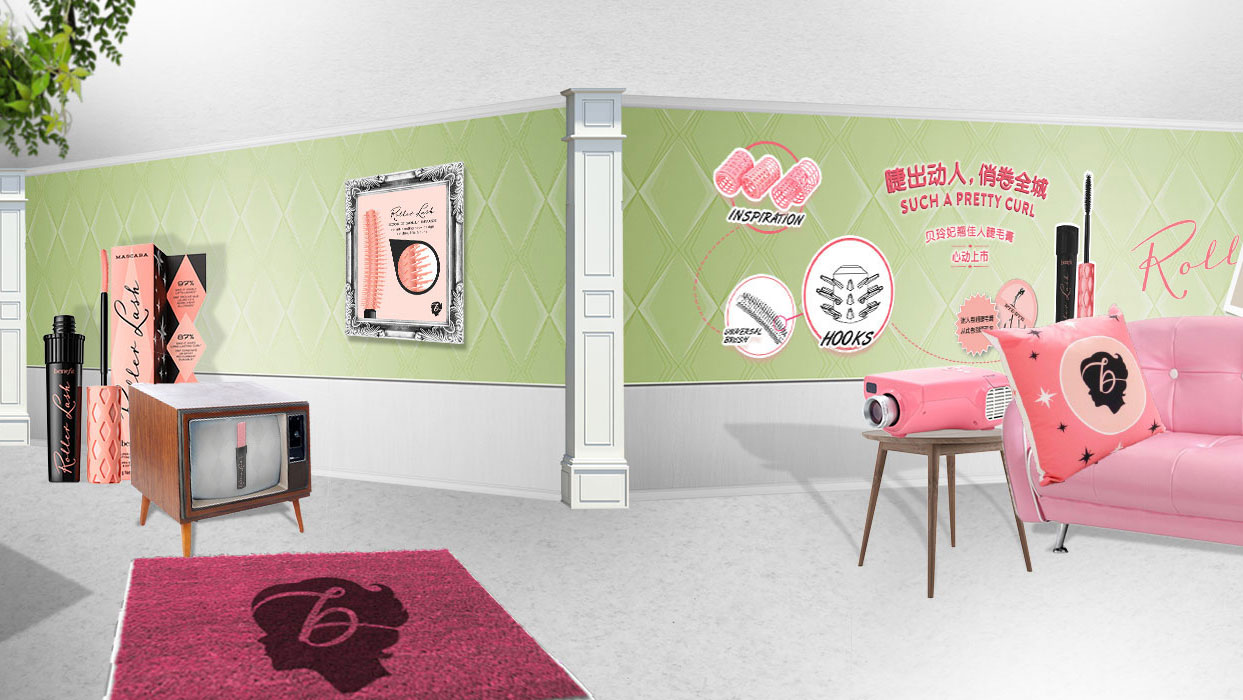
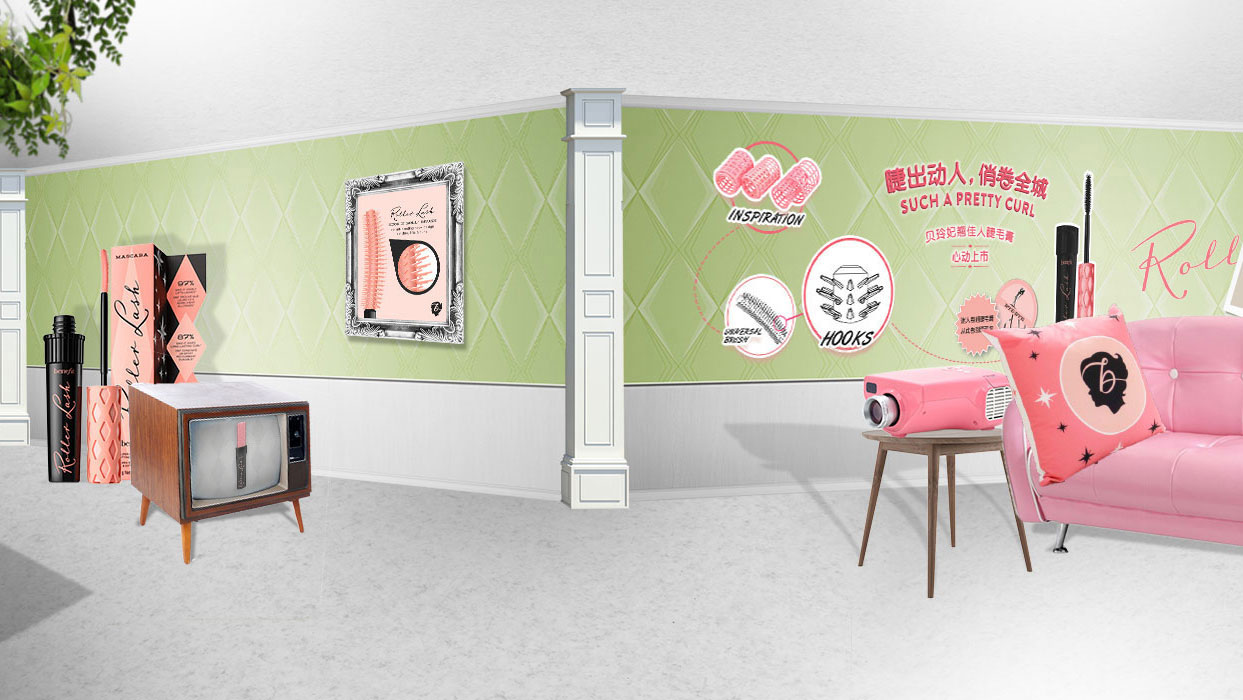
fix the magzine problem, split bike and blanket from bg

Changed region(s): [[0.0611, 0.78, 0.4891, 1.0]]

diff --git a/static/js/app.js b/static/js/app.js
@@ -218,14 +218,42 @@ $(window).on('mousewheel', function (e) {
     
     var tan = Math.tan(5 * Math.PI/180);
     
-    if( Math.abs(wheeldelta.y) / Math.abs(wheeldelta.x) > tan){
+    if( wheeldelta.x == 0  || Math.abs(wheeldelta.y) / Math.abs(wheeldelta.x) > tan){
         scrollBg(e.deltaY * e.deltaFactor);
     }else{
         scrollBg(e.deltaX * e.deltaFactor);
     }
-    
-    
 });
+
+var rotating, rotateIndex=0;
+
+var rotateMag = function(){
+    clearTimeout(rotating);
+    rotating = setTimeout(rotateMag, 3000);
+    
+    
+    if(++rotateIndex  > 3){
+        rotateIndex = rotateIndex % 4;
+    }
+    
+    
+    $(".mag-page-ct.active").fadeOut(500, function(){
+        $(this).removeClass("active").addClass("inactive");
+        
+        $("#mag-page-"+rotateIndex).fadeIn(500, function(){
+            $(this).removeClass("inactive").addClass("active");
+        });
+    });
+    
+    
+    
+    if(rotateIndex != 3){   //hide video
+        $(".mag-page-3-vplayer-ct").fadeOut(function(){
+            $(this).find(".video_player").html("");
+        });
+    }
+    
+}
 
 var magzineVideo = "<iframe height=100% width=100% src='http://static.youku.com/v/swf/qplayer.swf?VideoIDS=XODkxMDU5MjAw&isAutoPlay=true&isShowRelatedVideo=false&embedid=-&showAd=0' frameborder=0 allowfullscreen></iframe>"
 
@@ -237,14 +265,18 @@ var video2_4_1 = "<iframe height=100% width=100% src='http://static.youku.com/v/
 $(function(){
     /* reset the background image when document is ready */
     resize();
-
+    
     $(".hotspot").click(function(e){
         var index = $(this).attr("id"),
             container = "#" + index + "-ct",
             videotag = "#" +  index + "-player";
-            
+        
+        
         $(container).fadeIn(function(){
-                if(index == "hotspot-2-1"){
+            if(index === "hotspot-1"){
+                setTimeout(rotateMag, 1000);
+            }
+            if(index == "hotspot-2-1"){
                 //show video1
                 if($(videotag)){
                     $(videotag).html(video2_1_1);
@@ -261,20 +293,29 @@ $(function(){
         $(this).parent().parent().fadeOut();
         $(this).parent().find(".video_player").each(function(){
             $(this).html("");
-        })
+        });
+        $(".mag-page-3-vplayer-ct").fadeOut();
+        
     });
 
     $(".mag-nav-mask").mouseover(function(){
+        clearTimeout(rotating);
         var index = $(this).attr("val");
-        $(".mag-page-ct.active").removeClass("active").addClass("inactive");
-        $("#mag-page-"+index).removeClass("inactive").addClass("active");
         
+        
+        $(".mag-page-ct.active").fadeOut(500, function(){
+            $(this).removeClass("active").addClass("inactive");
+            
+            $("#mag-page-"+index).fadeIn(500, function(){
+                $(this).removeClass("inactive").addClass("active");
+            });
+        });
+
         
         if(index != 3){   //hide video
-            $(".mag-page-3-vplayer-ct").fadeOut(function(){
+            $(".").fadeOut(function(){
                 $(this).find(".video_player").html("");
             });
-            $(".video_player_close").hide();
         }
     });
     /*
@@ -286,17 +327,19 @@ $(function(){
     /* hotspot 2-2 product development next page and prev page handler */
     $(".next-page-arrow").click(function(e){
         var marginLeft = "-" + $(this).parent().width() + "px";
-        $(this).parents('.slide-wrapper').animate({marginLeft: marginLeft},600);
+        $(this).parents('.slide-wrapper').animate({marginLeft: marginLeft}, 600);
     });
     $(".prev-page-arrow").click(function(e){
-        $(this).parents('.slide-wrapper').animate({marginLeft: "0"},600);
+        $(this).parents('.slide-wrapper').animate({marginLeft: "0"}, 600);
     });
     
     //show the video
     $(".mag-page-3-video-preview").click(function(e){
+        clearTimeout(rotating);
         $(".mag-page-3-vplayer-ct").fadeIn(function(){
             $(this).find(".video_player").html(magzineVideo);
         });
+
     })
     $(".mag-page-3-vplayer-ct").hover(function(){
         $(".video_player_close").fadeIn();
@@ -304,10 +347,8 @@ $(function(){
     
     
     $(".video_player_close").click(function(){  
-        $(".video_player_close").fadeOut(function(){
-            $(".mag-page-3-vplayer-ct").fadeOut(function(){
-                $(this).find(".video_player").html("");
-            });
+        $(".mag-page-3-vplayer-ct").fadeOut(function(){
+            $(this).find(".video_player").html("");
         });  
     });
 });

diff --git a/static/css/style.css b/static/css/style.css
@@ -140,10 +140,31 @@ a:focus {
     border-radius: 16px;
 }
 
+.blanket {
+    position: absolute;
+    left: 26.098544562551%; /*25.858544562551%*/
+    top: 78.142857142857%; 
+    width: 11.520947176685%;
+    height: 30.142857142857%;
+    background: url(../images/blanket.png) no-repeat center center;
+    background-size: 100% 100%;
+}
+
+.bike {
+    position: absolute;
+    left: 89.07884151247%; 
+    top: 51.285714285714%; 
+    width: 10.92115848753%;
+    height: 76.428571428571%;
+    background: url(../images/bike.png) no-repeat center center;
+    background-size: 100% 100%;
+}
+
+
 .trash-bin {
     position: absolute;
     right: 16.291230893001%;
-    bottom: 94.571428571429%;
+    top: 55.571428571429%;
     width: 3.680611423974%;
     height: 37.857143%;
     background: url(../images/trash_bin.png) no-repeat center center;
@@ -241,14 +262,42 @@ a:focus {
 }
 
 #hs-content-1 {
-    position: relative;
+    position: absolute;
     margin: auto;
     width: 88.222464558342%;
+    left: 5.888767720829%;
     height: 87.258064516129%;
     top: 6.370967741936%;
     background: url(../images/magzine_bg.png) no-repeat center center;
     background-size: 100% 100%;
 }
+
+.mag-page-3-vplayer-ct {
+    position: absolute;
+    display: none;
+    width: 88.222464558342%;
+    left: 5.888767720829%;
+    height: 87.258064516129%;
+    top: 6.370967741936%;
+    margin:auto;
+    background-color: #FFF;
+}
+
+.video_player_close {
+    position: absolute;
+    display: block;
+    width: 12px;
+    height: 13px;
+    right: 1%;
+    top: 1%;
+    background: url(../images/float_close.png) no-repeat center center;
+    background-size: 100% 100%;
+}
+
+.video_player_close:hover {
+    cursor: pointer;
+}
+
 
 #hs-content-2-2 {
     position: relative;
@@ -613,29 +662,7 @@ a:focus {
     cursor: pointer;
 }
 
-.mag-page-3-vplayer-ct {
-    position: absolute;
-    display: none;
-    width: 79.978869519282%;
-    height: 33.385579937304%;
-    left: 10.010565240359%;
-    top: 33.307210031348%;
-    background-color: #FFF;
-}
 
-.video_player_close {
-    position: absolute;
-    display: none;
-    width: 15px;
-    height: 15px;
-    right: 10.610565240359%;
-    top: 33.57210031348%;
-    background: url(../images/float_close.png) no-repeat center center;
-}
-
-.video_player_close:hover {
-    cursor: pointer;
-}
 /*
  * header section
  */

diff --git a/static/index.html b/static/index.html
@@ -22,7 +22,9 @@
                     --><img class="content-background-img" src="images/bg3.jpg" alt="background3"/><!--
                     --><img class="content-background-img" src="images/bg4.jpg" alt="background4"/>
                 </div>
+                <div class="blanket"></div>
                 <div class="weidian-message"></div>
+                <div class="bike"></div>
                 <div class="dump-contract">
                     <ul class="sisters-count">
                         <li>
@@ -160,18 +162,15 @@
                                 <div class="mag-page-3-video-preview" width="432" height="243">
                                     
                                 </div>
-                                <div class="mag-page-3-vplayer-ct" width="757" height="426">
-                                    <div class="video_player">
-                                        
-                                    </div>
-                                    
-                                </div> 
-                                <div class="video_player_close">
-                                        
-                                    </div>
                             </div>
                         </div>
                     </div>
+                    <div class="mag-page-3-vplayer-ct" width="757" height="426">
+                        <div class="video_player">
+                        </div>
+                        <div class="video_player_close">
+                        </div>
+                    </div> 
                 </div> 
             </div>
             <div id="hotspot-2-1-ct" class="hotspot-ct" >
